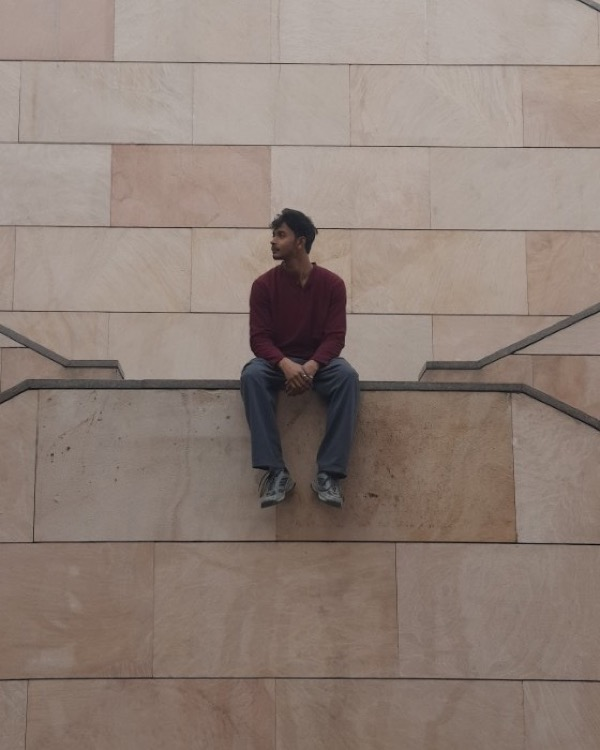
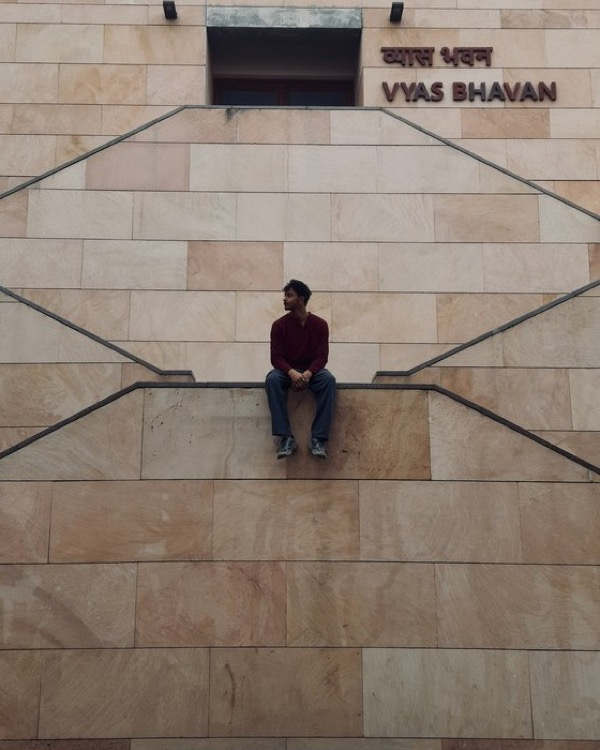
Use real profile details and matched photo pair from earlier version
Brings over Preetam's own content from the earlier portfolio on GitHub
(lib/content.ts): bio, skills, learning journey, RAG and Gesture
Controller projects, side quests, email and LinkedIn. Adds the matched
base/armour photo pair for the paint reveal, cropped identically to 4:5.

Map stops now support an optional end date and level.

diff --git a/src/data/profile.ts b/src/data/profile.ts
@@ -1,42 +1,42 @@
 // ─────────────────────────────────────────────────────────────
 //  Everything personal lives in this file.
 //  Edit the values below and the whole site updates.
-//  Anything marked TODO is placeholder text waiting for real info.
+//  Empty values / lists hide their section automatically.
 // ─────────────────────────────────────────────────────────────
 
 export const profile = {
   firstName: "Preetam",
   lastName: "Kumar",
-  title: "3RD-YEAR STUDENT", // shown under your name on the character card
-  level: 0, // TODO: your age, shown as "Lv. N" (0 hides it)
+  title: "EXPLORER", // shown under your name on the character card
+  level: 20, // shown as "Lv. 20" — bump it whenever you like (0 hides it)
   photo: "/me.jpg",
-  // Alternate "fantasy" photo for the hover paint-reveal. Must be the same size
-  // and framing as `photo`. Until you add one, a stylised version is generated.
+  // Alternate "fantasy" photo for the hover paint-reveal (same size and framing as `photo`)
   photoReveal: "/me-alt.jpg",
   bio: [
-    { text: "Hi, I'm " },
-    { text: "Preetam", highlight: true },
-    { text: ", a " },
-    { text: "3rd-year student", highlight: true },
-    { text: " who likes building AI systems from the ground up. Lately that's meant " },
-    { text: "retrieval-augmented generation", highlight: true },
-    { text: " and " },
-    { text: "voice interfaces", highlight: true },
-    { text: ": writing the core pipeline myself instead of reaching for end-to-end frameworks, so I understand every piece." },
+    { text: "I'm Preetam, a " },
+    { text: "third-year AI engineering student", highlight: true },
+    { text: " who loves building things, from computer vision projects to generative AI experiments. I'm actively developing my skills in " },
+    { text: "Python, machine learning, and RAG-based systems", highlight: true },
+    { text: ", working toward a career in " },
+    { text: "AI/ML or backend engineering", highlight: true },
+    { text: "." },
   ],
-  education: "", // TODO: e.g. "🎓 College Name 2024–2028" (empty hides it)
-  hobbies: [] as string[], // TODO: e.g. ["Loves photography", "Loves travelling"] (empty hides it)
-  // Taken from your RAG project — add the languages and tools you use too
-  skills: ["RAG", "Embeddings", "Vector Search", "BM25", "Hybrid Search", "LLMs", "Speech-to-Text", "Chunking Strategies", "Guardrails"],
-  email: "", // TODO
-  resume: "", // TODO: e.g. "/resume.pdf" (drop the PDF into /public)
+  education: "🎓 AI Engineering · 3rd year", // add your college name and years if you like
+  hobbies: ["Currently a student", "Building in public", "Loves shipping side projects"],
+  skills: [
+    "Python", "JavaScript", "LLMs", "RAG", "MCP", "Backend", "System Design", "MongoDB", "Node.js",
+    "Pandas", "NumPy", "OpenCV", "MySQL", "FastAPI", "Uvicorn", "C++", "Docker", "Scikit-Learn",
+    "NLP", "AI", "ML",
+  ],
+  email: "preetamk0069@gmail.com",
+  resume: "", // e.g. "/resume.pdf" (drop the PDF into /public)
 };
 
 export type SocialKey = "linkedin" | "github" | "email" | "x" | "instagram" | "youtube";
 
 // Leave a link empty ("") to hide it everywhere.
 export const socials: Record<SocialKey, string> = {
-  linkedin: "", // TODO
+  linkedin: "https://www.linkedin.com/in/preetamkumar17/",
   github: "https://github.com/kaynzou",
   email: profile.email ? `mailto:${profile.email}` : "",
   x: "",
@@ -44,25 +44,39 @@ export const socials: Record<SocialKey, string> = {
   youtube: "",
 };
 
-export const achievements: { rank: string; title: string }[] = [
-  // TODO: e.g. { rank: "1st", title: "College Hackathon" } — empty hides the section
-];
+// e.g. { rank: "1st", title: "College Hackathon" } — empty hides the section
+export const achievements: { rank: string; title: string }[] = [];
 
 export type Stop = {
   company: string;
   role: string;
   start: string;
-  end: string; // use "Present" for your current role
-  level: number; // your age at the time — shown as "Lv. N"
+  end?: string; // use "Present" for what you're doing now
+  level?: number; // your age at the time — shown as "Lv. N"
   description: string;
   tags: string[];
 };
 
-// Oldest first. The ship sails from the first stop to the last.
+// The learning journey, oldest first. The ship sails from the first stop to the last.
+// Add internships, certifications and big milestones as you go.
 export const experience: Stop[] = [
-  // TODO: internships, jobs, clubs, research — oldest first. Empty hides the treasure map.
-  // { company: "Company", role: "Intern", start: "May 2025", end: "Jul 2025", level: 20,
-  //   description: "What you did and the impact.", tags: ["Python"] },
+  {
+    company: "Basecamp",
+    role: "Started AI Engineering",
+    start: "Year 1",
+    description: "Began my AI engineering degree — first contact with Python, data structures, and the fundamentals of machine learning.",
+    tags: ["Python", "ML Fundamentals"],
+  },
+  {
+    company: "Current Quest",
+    role: "Building a Voice-Enabled RAG Pipeline",
+    start: "Year 3",
+    end: "Present",
+    level: 20,
+    description:
+      "Designing and building a retrieval-augmented generation pipeline from scratch, with voice input and output layered on top — covering chunking, embeddings, retrieval, and generation end to end.",
+    tags: ["RAG", "LLMs", "Python", "FastAPI"],
+  },
 ];
 
 export type Project = {
@@ -77,23 +91,45 @@ export type Project = {
 
 export const projects: Project[] = [
   {
-    name: "Voice-Enabled RAG System", // TODO: the project's real name, if it has one
+    name: "RAG Pipeline — Built From Scratch",
     description:
-      "A retrieval-augmented generation pipeline built from scratch, with no end-to-end RAG frameworks. It covers custom document processing, multi-strategy chunking, embeddings, BM25 + vector retrieval fused into hybrid search, and grounded LLM answer generation. Speech-to-text makes it conversational, with latency analytics, orchestration and safety guardrails wrapped in a polished interface.",
-    tags: ["RAG", "Hybrid Search", "BM25", "Embeddings", "Speech-to-Text", "LLMs"],
-    // TODO: github: "https://github.com/kaynzou/...", demo: "...", image: "/projects/rag.png"
+      "A voice-enabled, production-grade retrieval-augmented generation pipeline built from scratch in Python — no LangChain, no LlamaIndex. Custom chunking (fixed, semantic, paragraph, section-aware), BM25 + dense hybrid search fused with RRF, cross-encoder reranking, grounded generation with citations, guardrails against hallucination, and voice input via speech-to-text. 101 tests across the pipeline, served with FastAPI + Streamlit.",
+    tags: ["Python", "RAG", "FastAPI", "Hybrid Search", "Voice"],
+    github: "https://github.com/kaynzou/rag-pipeline",
+  },
+  {
+    name: "Gesture Controller",
+    description:
+      "A webcam-based gesture controller for macOS built with OpenCV and MediaPipe. Pinch gestures adjust volume and brightness, a fist minimizes the active window, and an open palm switches between apps — all tracked live through hand landmark detection, no extra hardware needed.",
+    tags: ["Python", "OpenCV", "MediaPipe", "Computer Vision"],
+    github: "https://github.com/kaynzou/gesture-controller",
   },
   {
     name: "This Portfolio",
-    description: "An adventure-themed portfolio with a WebGL night sky, a paint-reveal portrait, a scroll-driven treasure map, and an AI chatbot that answers questions about me.",
+    description:
+      "An adventure-themed portfolio with a WebGL night sky, a paint-reveal portrait, a scroll-driven treasure map, and an AI chatbot that answers questions about me.",
     tags: ["Next.js", "WebGL", "Framer Motion", "Claude"],
     github: "https://github.com/kaynzou/preetam-portfolio",
   },
 ];
 
+// Smaller projects — empty hides the section
 export const sideQuests: { name: string; description: string; tags: string[]; link?: string }[] = [
-  // TODO: smaller projects — empty hides the section
+  {
+    name: "Biased Dice Simulator",
+    description:
+      "A desktop app built with Python and Tkinter that rolls dice — normal or weighted. Pick a number, set it to any target probability, and watch the bias play out over repeated rolls.",
+    tags: ["Python", "Tkinter"],
+    link: "https://github.com/kaynzou/biased-dice",
+  },
+  {
+    name: "Smart Travel Bot",
+    description:
+      "A Python bot that bundles useful travel info together — checks a location, pulls the weather, converts currency, and surfaces quick tips and travel requirements. Built mostly as a fun way to explore and tie together a handful of APIs.",
+    tags: ["Python", "APIs"],
+    link: "https://github.com/kaynzou/smart_travel_bot",
+  },
 ];
 
-// Used by the AI chatbot. Built from the data above, plus anything extra you add here.
-export const extraChatContext = ``;
+// Anything extra the AI chatbot should know about you
+export const extraChatContext = `Career goal: AI/ML or backend engineering.`;

diff --git a/src/components/experience/TreasureMap.tsx b/src/components/experience/TreasureMap.tsx
@@ -3,6 +3,9 @@
 import { useMemo, useRef, useState } from "react";
 import { motion, useMotionValueEvent, useScroll } from "framer-motion";
 import type { Stop } from "@/data/profile";
+
+const isCurrent = (s: Stop) => s.end?.toLowerCase() === "present";
+const dates = (s: Stop) => (s.end ? `${s.start} — ${s.end}` : s.start);
 import { ScrollReveal } from "@/components/ui/ScrollReveal";
 import { SectionHeading } from "@/components/ui/SectionHeading";
 
@@ -177,7 +180,7 @@ export function TreasureMap({ stops }: { stops: Stop[] }) {
 
               {stops.map((s, i) => {
                 const p = pts[i];
-                const current = s.end.toLowerCase() === "present";
+                const current = isCurrent(s);
                 const arrived = i < reached;
                 return (
                   <motion.button
@@ -190,7 +193,11 @@ export function TreasureMap({ stops }: { stops: Stop[] }) {
                     className="group absolute flex flex-col items-center"
                     style={{ left: `${(p.x / W) * 100}%`, top: `${(p.y / H) * 100}%`, x: "-50%", y: "-50%" }}
                   >
-                    <span className="mb-1 rounded-full bg-[#3a2a1a] px-2 py-0.5 text-[9px] font-bold text-[#f5e6d0]">Lv. {s.level}</span>
+                    {s.level ? (
+                      <span className="mb-1 rounded-full bg-[#3a2a1a] px-2 py-0.5 text-[9px] font-bold text-[#f5e6d0]">Lv. {s.level}</span>
+                    ) : (
+                      <span className="mb-1 h-[17px]" />
+                    )}
                     <motion.span
                       // pops when the ship arrives at this stop
                       animate={arrived ? { scale: [1, 1.3, 1] } : { scale: 1 }}
@@ -216,7 +223,7 @@ export function TreasureMap({ stops }: { stops: Stop[] }) {
                     </motion.span>
                     <span className="mt-1 whitespace-nowrap text-[10px] font-semibold text-[#3a2a1a]">{s.company}</span>
                     <span className="whitespace-nowrap text-[9px] text-[#6b5236]">
-                      {s.start} — {s.end}
+                      {dates(s)}
                     </span>
                     {current && <span className="text-[9px] font-bold text-[#2e6b5a]">You are here</span>}
                   </motion.button>
@@ -267,13 +274,13 @@ export function TreasureMap({ stops }: { stops: Stop[] }) {
                       <div className="flex items-center gap-2">
                         <span className="grid h-6 w-6 place-items-center rounded-full bg-[#5c4a3a] text-[10px] font-bold text-[#f5e6d0]">{s.company[0]}</span>
                         <h3 className="font-bold text-[#3a2a1a]">{s.company}</h3>
-                        {s.end.toLowerCase() === "present" && <span className="text-[10px] italic text-[#2e6b5a]">current</span>}
+                        {isCurrent(s) && <span className="text-[10px] italic text-[#2e6b5a]">current</span>}
                       </div>
-                      <span className="rounded bg-[#d4b896]/60 px-1.5 py-0.5 text-[9px] font-bold text-[#6b5236]">Lv. {s.level}</span>
+                      {s.level ? <span className="rounded bg-[#d4b896]/60 px-1.5 py-0.5 text-[9px] font-bold text-[#6b5236]">Lv. {s.level}</span> : null}
                     </div>
                     <p className="mt-2 text-sm font-semibold text-[#5c4a3a]">{s.role}</p>
                     <p className="text-[11px] text-[#8b6b45]">
-                      {s.start} — {s.end}
+                      {dates(s)}
                     </p>
                     <p className="mt-3 text-sm leading-relaxed text-[#4a3a2a]/90">{s.description}</p>
                     <div className="mt-3 flex flex-wrap gap-1.5">

diff --git a/src/app/api/chat/route.ts b/src/app/api/chat/route.ts
@@ -15,7 +15,7 @@ About: ${profile.bio.map((b) => b.text).join("")}
 ${profile.education ? `Education: ${profile.education.replace("🎓 ", "")}\n` : ""}${profile.hobbies.length ? `Hobbies: ${profile.hobbies.join(", ")}\n` : ""}Skills: ${profile.skills.join(", ")}
 
 ${experience.length ? "Experience (oldest to newest):" : "No work experience listed yet."}
-${experience.map((e) => `- ${e.role} at ${e.company} (${e.start} – ${e.end}): ${e.description} [${e.tags.join(", ")}]`).join("\n")}
+${experience.map((e) => `- ${e.role} at ${e.company} (${e.end ? `${e.start} – ${e.end}` : e.start}): ${e.description} [${e.tags.join(", ")}]`).join("\n")}
 
 Projects:
 ${projects.map((p) => `- ${p.name}: ${p.description} [${p.tags.join(", ")}]${p.link ? ` ${p.link}` : ""}`).join("\n")}
